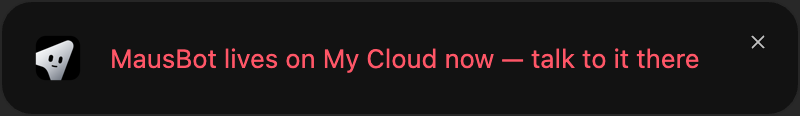
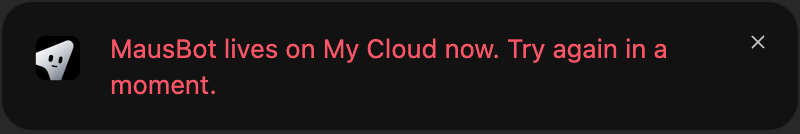
docs(talk): My Cloud in the talk shortcut's verification, spec and box evidence

Changed region(s): [[0.125, 0.2845, 0.875, 0.7241], [0.0312, 0.2845, 0.0938, 0.6983], [0.9375, 0.2586, 0.9688, 0.4138]]

diff --git a/docs/verification/talk-shortcut.md b/docs/verification/talk-shortcut.md
@@ -15,8 +15,8 @@ pnpm exec vitest run electron/speech.test.mjs electron/skin-overlay.test.mjs ser
 pnpm typecheck && pnpm lint && pnpm i18n:check
 ```
 
-They prove key parsing and registration, the key let go while home is My Cloud
-and taken back when home is this computer again, the press/release state machine
+They prove key parsing and registration, the key let go while home needs a
+sign-in and taken back on My Cloud or this computer, the press/release state machine
 with injected clocks and speech, the box's window flags, states, skin theme and
 pinned display, the local-server ask (thread, owner header, send id, SSE follow,
 needs-you, timeout, a 409 `moved`, a server still starting), preference storage,
@@ -25,6 +25,34 @@ update waiting for a talk ask.
 They do not prove the real hotkey, the microphone, that the box never takes
 focus, that it shows over full-screen apps and other Spaces, or the release of
 ⌃⌥ after speech (no unit test covers that release path).
+
+### My Cloud
+
+```sh
+node --test electron/talk-cloud.node-test.mjs electron/talk-server.node-test.mjs electron/talk-session.node-test.mjs electron/talk-main.node-test.mjs electron/talk-panel.node-test.mjs
+pnpm exec vitest run server/talk-cloud.e2e.test.ts --maxWorkers=1
+```
+
+With fakes for My Cloud, the Admin and the window's session, they prove: asks go
+to My Cloud's verified origin over the window's own sign-in there (`credentials:
+include`, an `origin` header, no background header, no token of its own) and
+never to this computer's frozen server; no verified origin asks nothing; an
+ended session signs the window in again once, a failed sign-in says so; an
+asleep My Cloud is woken at the press through the Admin (`openSleepingCloud`),
+two presses share one wake, a "going to sleep" answer wakes it and tries once
+more, a wake that fails or passes 45 s says so and asks nothing; the message
+goes once after hello (a 401 repeat keeps its send id); a server that refuses
+`select` makes the chat without it; "Waking My Cloud…" shows after the words
+are let go and presses are ignored meanwhile; an ask stays with the server that
+found its chat when home changes; the box link keeps its escaped ids; the
+Settings bridge and its channels reach My Cloud's own page only while it is
+home at the verified origin, never a team's or another server's page. The e2e
+test asks a real server over a cookie redeemed from a one-time code: answered,
+Quick asks not opened, another origin refused, an ended session renewed once,
+one that can't be renewed says sign in.
+They do not prove Electron's cookie jar, a real My Cloud behind its proxy, its
+sleep, the Admin's wake or how long a real wake takes: check those by hand
+below.
 
 `docs/verification/evidence/talk-shortcut/` holds the box page rendered in
 headless Chrome for every state in the app's light and dark skins
@@ -102,13 +130,46 @@ or taller than the card shows a box the app never draws.
     Long replies stop at 400 characters with an ellipsis, and the card grows to
     at most 240 px with its bottom edge showing (a Japanese reply is cut at ten
     lines).
-15. **My Cloud home.** After moving this computer's bots to My Cloud (window on
-    My Cloud's page): ⌃⌥Space does nothing in MausBot and another app can take
-    it (`talk-shortcut:state` says unavailable, so no Settings row). Come home
-    to this computer again: the key works without a restart. A box still up
-    when the move froze this computer says "MausBot lives on My Cloud now —
-    talk to it there". A Quick asks chat link sent while My Cloud's page is
-    shown does reach it as `chat:open`, and My Cloud has no such chat; with the
-    key off there, no box makes one.
+15. **Home needs a sign-in.** With this computer's bots on My Cloud and the
+    MausBot Cloud sign-in ended (Settings → MausBot Cloud → sign out): ⌃⌥Space
+    does nothing in MausBot and another app can take it. Sign in again: the key
+    works without a restart. A box still up when the move froze this computer
+    says "MausBot lives on My Cloud now. Try again in a moment."
 16. **Server starting.** Quit, relaunch and press at once, before the window
     loads: "MausBot is still starting. Try again in a moment."
+
+### By hand: My Cloud
+
+Needs a test account whose bots were moved to a test My Cloud, on a packaged
+build of the branch beside the installed app (never Omkar's real My Cloud, never
+a data folder that was ever opened against real data). My Cloud must run this
+branch's server for the Settings row (an older one has no row, and makes the
+Quick asks chat the open one there once).
+
+17. **Ask My Cloud.** Window on My Cloud's page, Safari in front: hold ⌃⌥Space,
+    say "what can you do", let go. The reply shows in the box; My Cloud's
+    MausBot has a "Quick asks" chat with the ask, and MausBot's open chat there
+    did not change. This computer's frozen server got no request (its log shows
+    none).
+18. **Click.** Click the box: the window comes forward on My Cloud's Quick asks
+    chat. With a team's Cloud shown in the window, the click brings My Cloud
+    back first, then the chat.
+19. **Asleep.** Let My Cloud sleep (its plan sleeps when idle; the Cloud
+    settings say asleep). Hold, speak for a few seconds, let go: "Waking My
+    Cloud…" with the words, then the reply, sent once (one user message in the
+    chat). Pressing again while it wakes does nothing.
+20. **Wake fails.** With the network off after letting go, or a Cloud that
+    can't start: "My Cloud didn't wake up. Try again in a moment." within about
+    45 s, nothing in the chat. Network off while awake: "Couldn't reach My
+    Cloud. Try again in a moment."
+21. **Session ended.** Sign this app out on My Cloud's page only (its own
+    sign-out), then press: the window's session there is renewed by itself and
+    the ask goes through. With the MausBot Cloud sign-in also ended: "Sign in to
+    My Cloud again, then try again."
+22. **Settings row.** On My Cloud's page, Settings → General shows "Talk to
+    MausBot from any app"; turning it off frees the key and this app's own
+    Settings shows it off too. On a team's Cloud page and on another own
+    Cloud's page the row is absent (`window.ogb.talkShortcut` is undefined in
+    the page's devtools).
+23. **Teams stay off.** With a team's Cloud shown, a press still asks My
+    Cloud's MausBot, never the team's.

diff --git a/docs/superpowers/specs/2026-10-29-talk-on-my-cloud-design.md b/docs/superpowers/specs/2026-10-29-talk-on-my-cloud-design.md
@@ -37,8 +37,10 @@ default session), the same path Files and lending use for My Cloud's API:
 - Signing in again is `reconnectCloud` (`electron/main.mjs:1488`) → `signInCloudSession`
   (`electron/cloud-home.mjs:229`): a fresh one-time code from the Admin for the Cloud it verified, redeemed into the
   window's own cookie, and refused for any origin but My Cloud's (or another own Cloud's, which talk never names).
-- My Cloud's server keeps its rules for such a session (`server/request-auth.ts:533`, `:536`): same origin, and a
-  change only from a request that proves it (the `origin` header). Nothing there is relaxed.
+- My Cloud's server keeps its rules for such a session: a cookie counts only for a same-origin request
+  (`server/request-auth.ts:533`), and a browser sign-in's cookie changes things only from a request that proves its
+  origin (`:536`). The window's session comes from the Admin's code (owner scopes, not a browser sign-in), and every
+  talk request names My Cloud's own origin, so it passes either rule as the window's page does. Nothing is relaxed.
 
 The origin talk uses is My Cloud's only while both agree: home's origin (`homeWindow.current()`) and the Admin's
 verified one (`myCloud()`, `electron/main.mjs:2622`). Otherwise the box says it couldn't reach My Cloud and nothing is
@@ -91,8 +93,8 @@ lives on My Cloud now. Try again in a moment.": the next press goes there.
 ## The Settings row on My Cloud's page
 
 The talk bridge (`window.ogb.talkShortcut`) is still kept off every server page by default: it is in neither
-`REMOTE_SAFE` nor `HOME_PAGE` (`electron/preload.cjs:64`, `:66`). It is added for one more page only: **My Cloud's own
-page while it is home**. Two checks, both in main:
+`REMOTE_SAFE` nor `HOME_PAGE` (`electron/preload.cjs:64`, `:66`). It is added, as `MY_CLOUD_PAGE`, for one more page
+only: **My Cloud's own page while it is home**. Two checks, both in main:
 
 - `talk-shortcut:page` (sync, asked by the preload only on a page that is already the home page) and the
   `talk-shortcut:state`/`talk-shortcut:set` handlers allow a sender that is this app's page (`localOnly`), or My
@@ -123,6 +125,9 @@ no row.
   wake, check, gate released), a failed and a slow wake, an asleep answer mid-prepare → wake → one retry, two
   prepares → one wake, no verified origin.
 - `electron/talk-server.node-test.mjs`: a request's own TalkServerError passes through; the 400 `select` fallback.
+- `server/talk-cloud.e2e.test.ts`: a real server standing in for My Cloud, asked over a cookie redeemed from a
+  one-time code: the ask is answered, Quick asks is not opened, another origin is refused, an ended session is renewed
+  once and a session that can't be renewed says sign in.
 - `electron/talk-session.node-test.mjs`: "waking" after release, then sending; presses ignored and busy while waking;
   a wake failing while listening or after release; the My Cloud notices.
 - `electron/talk-main.node-test.mjs`: available on a My Cloud home, not on sign-in; a press asks My Cloud through the

diff --git a/docs/superpowers/specs/2026-10-27-talk-shortcut-design.md b/docs/superpowers/specs/2026-10-27-talk-shortcut-design.md
@@ -88,7 +88,8 @@ Asks always go to the MausBot on this Mac's own server, even when the window is
 showing a Team Cloud (my call for v1). Once this Mac's bots moved to My Cloud
 (home is My Cloud, or this Mac's copy is frozen) the shortcut is unavailable and
 its key free, until home is this Mac again; a frozen server's 409 `moved` says
-"MausBot lives on My Cloud now — talk to it there".
+"MausBot lives on My Cloud now — talk to it there". (Changed for My Cloud on 2026-10-29: the key follows MausBot
+there; see [Talk shortcut on My Cloud](2026-10-29-talk-on-my-cloud-design.md).)
 
 `GET /api/bots?messages=0` → MausBot (`defaultBot` without `person`, else the
 Chief of Staff). `POST /api/bots/:id/messages {text, sendId}` with the desktop
